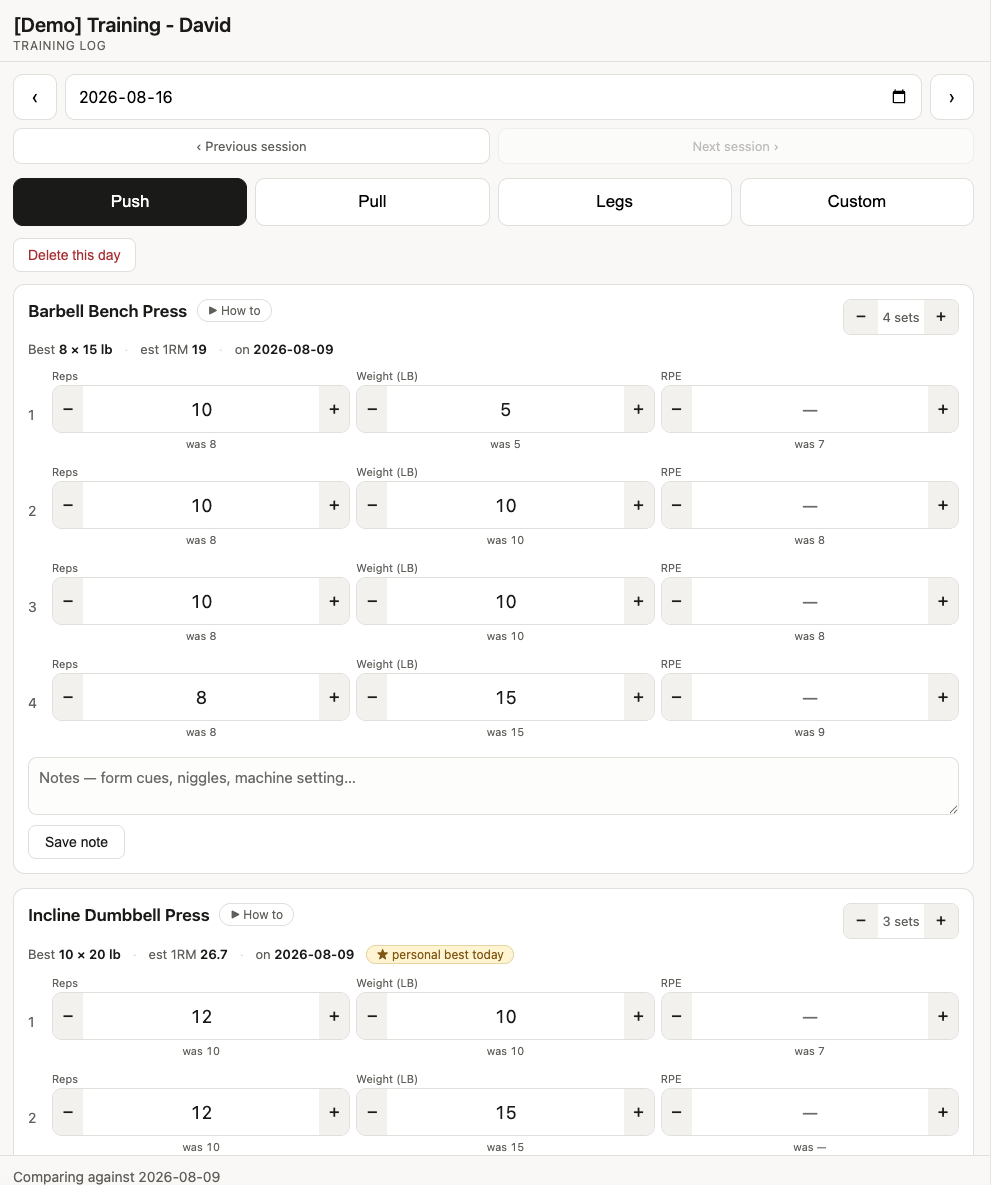
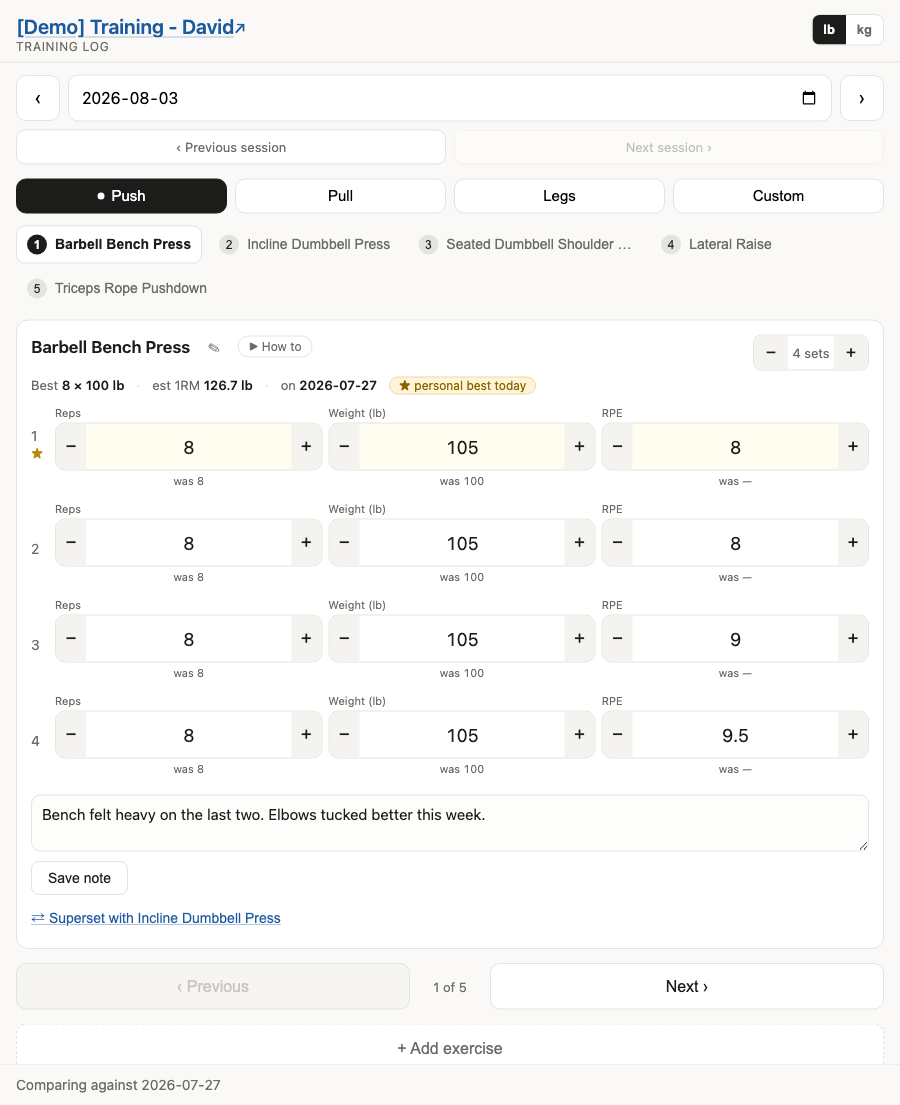
docs: re-record every clip and both screenshots against the current app
Ten clips and the two screenshots all predated this week's changes: the
read-only banner, the shrunken day row, the exercise list, "Delete this
session" below the session, the Weighted / Bodyweight toggle and the
lowercase unit labels.

The screenshots are taken from the iframe element rather than by cropping
a fixed offset off the page. Google's "created by a Google Apps Script
user" banner wraps to two lines at 460px and one at 900px, so a fixed
crop that suited the narrow shot cut the heading off the wide one.

diff --git a/docs/admin.md b/docs/admin.md
@@ -15,9 +15,10 @@ Applies whether you are logging your own training or recording someone else's
 
 ## The screen
 
-![A Push session open in the admin view, showing the date and session
-navigation, day-type buttons, and two exercise cards with their records and
-last-time values]({{ site.baseurl }}/img/admin-session.png)
+![A Push session open in the admin view: date and session navigation, the
+day-type row with a dot on the day that has a session, the exercise list
+across the width, and the first exercise's card with its records, last-time
+values and note]({{ site.baseurl }}/img/admin-session.png)
 
 Top to bottom:
 

diff --git a/docs/viewer.md b/docs/viewer.md
@@ -26,7 +26,8 @@ someone else holds.
 Nothing on the page can be typed into: values are plain boxes, notes are plain
 text, and there are no buttons that would change anything.
 
-![A Push session in the read-only view: values shown as plain boxes with no
+![A Push session in the read-only view: the READ ONLY banner across the top,
+the page outlined to match, and values shown as plain boxes with no
 buttons]({{ site.baseurl }}/img/viewer-session.png)
 
 One exercise is shown at a time, with the whole session listed above it. Move
